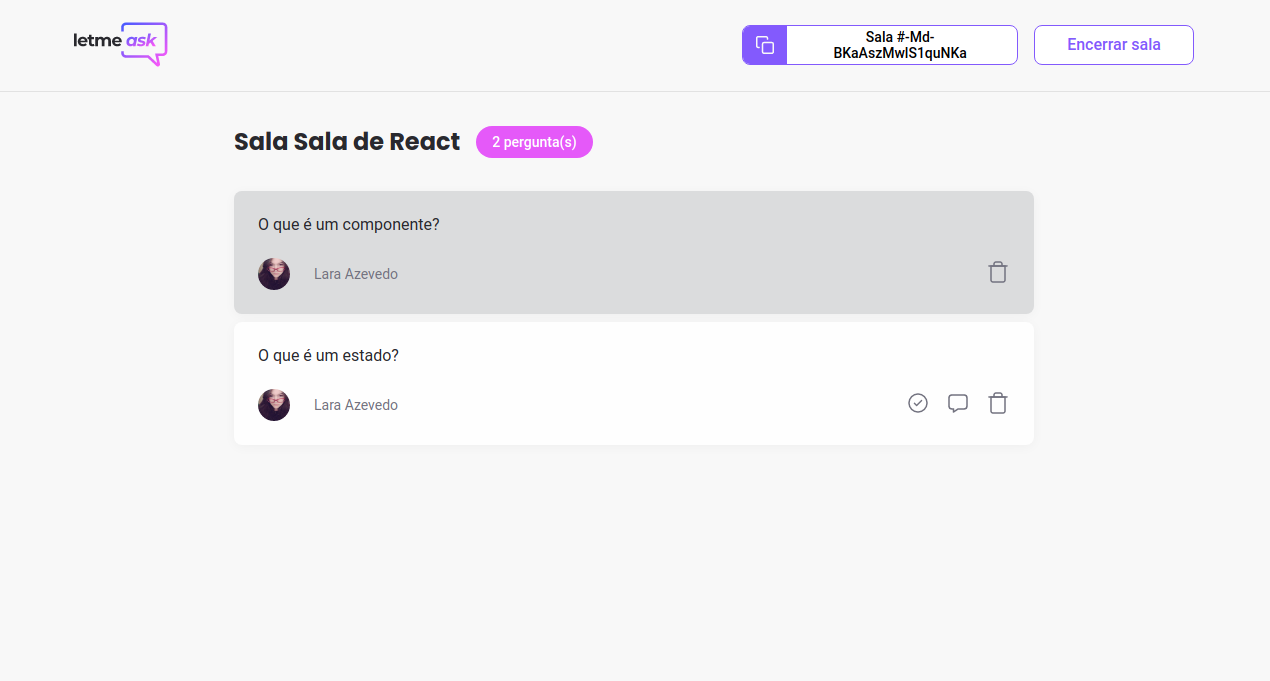
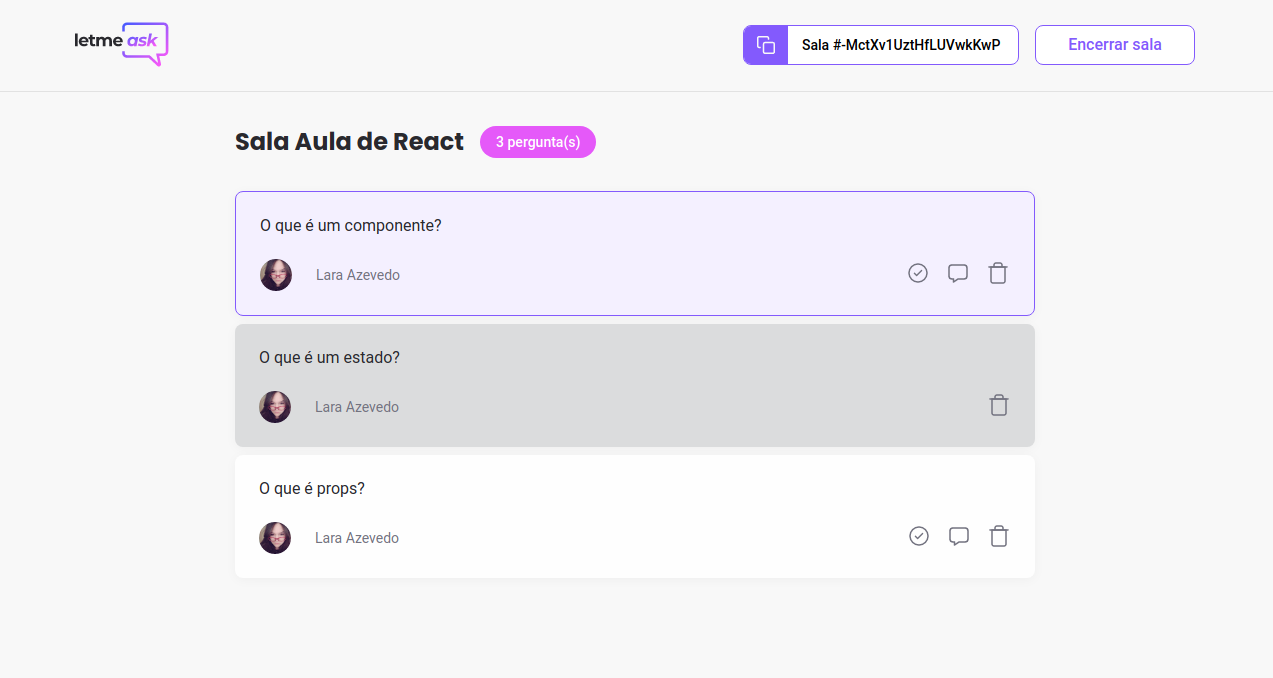
README

diff --git a/README.md b/README.md
@@ -40,3 +40,5 @@ yarn start
 ![1](.github/Login.png)
 ---
 ![2](.github/Home.png)
+---
+![3](.github/Admin.png)
